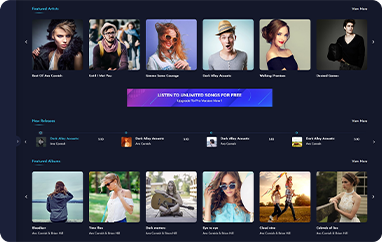
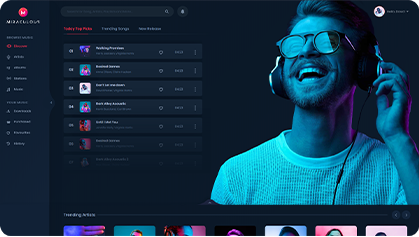
final

diff --git a/preview/index.html b/preview/index.html
@@ -136,42 +136,32 @@ Project: Miraculous Landing Page
 				<div class="mq_heading">
 					<h1>Demos</h1>
 					<img src="assets/images/line.png" alt="" title=""/>
-					<p>Unique Html Template With 3 Different Demos</p>
+					<p>Unique Html Template With 4 Different Demos</p>
 				</div>
 				<div class="row" id="go_to_demo">
 					<div class="col-lg-6 col-md-6 mq_after_effect1">
-						
-							<div class="ms_demo_img">
-								<img src="assets/images/demo-screen1.png" alt="" title=""/>
-								
-								<div class="bt_full_overlay">
-									<a href="./html/Bootstrap4/version1/index.html" target="_blank">Bootstrap4</a>
-									<a href="./html/Bootstrap5/version1/index.html" target="_blank">Bootstrap5</a>
-								</div>
-							
+						<div class="ms_demo_img">
+							<img src="assets/images/demo-screen4.jpg" alt="" title=""/>
+							<div class="bt_full_overlay">
+								<a href="./html/Bootstrap5/version4/index.html" target="_blank">Bootstrap5</a>
 							</div>
-				
-						<a href="./html/Bootstrap5/version1/index.html" target="_blank" class="mq_btn">demo 01</a>
-					</div>
-					<div class="col-lg-6 col-md-6 mq_after_effect2">
-						
-							<div class="ms_demo_img">
-								<img src="assets/images/demo-screen2.png" alt="" title=""/>
-								
-								<!-- <div class="ms_box_overlay"></div> -->
-								<!-- <div class="demo_btn">
-									<span><img src="assets/images/previewicon.svg" alt=""/></span>
-								</div> -->
-								<div class="bt_full_overlay">
-									<a href="./html/Bootstrap5/version3/index.html" target="_blank">Bootstrap5</a>
-								</div>
 								<div class="new_btn">
 									<h1>NEW</h1>
 								</div>
-								
+						</div>
+						<a href="./html/Bootstrap5/version4/index.html" target="_blank" class="mq_btn">demo 01</a>
+					</div>
+					<div class="col-lg-6 col-md-6 mq_after_effect2">
+						<div class="ms_demo_img">
+							<img src="assets/images/demo-screen2.png" alt="" title=""/>
+							<div class="bt_full_overlay">
+								<a href="./html/Bootstrap5/version3/index.html" target="_blank">Bootstrap5</a>
 							</div>
-					
-							<a href="./html/Bootstrap5/version3/index.html" target="_blank" class="mq_btn">demo 02</a>
+							<div class="new_btn">
+								<h1>NEW</h1>
+							</div>
+						</div>
+						<a href="./html/Bootstrap5/version3/index.html" target="_blank" class="mq_btn">demo 02</a>
 					</div>
 					<div class="col-lg-12">
 						<div class="ti_down_arrow">
@@ -179,17 +169,24 @@ Project: Miraculous Landing Page
 						</div>
 					</div>
 					<div class="col-lg-6 col-md-6 mq_after_effect3">
-						
-							<div class="ms_demo_img">
-								<img src="assets/images/demo-screen3.png" alt="" title=""/>
-								<!-- <div class="ms_box_overlay"></div> -->
-								<div class="bt_full_overlay">
-									<a href="./html/Bootstrap4/version2/index.html" target="_blank">Bootstrap4</a>
-									<a href="./html/Bootstrap5/version2/index.html" target="_blank">Bootstrap5</a>
-								</div>
+						<div class="ms_demo_img">
+							<img src="assets/images/demo-screen1.png" alt="" title=""/>
+							<div class="bt_full_overlay">
+								<a href="./html/Bootstrap4/version1/index.html" target="_blank">Bootstrap4</a>
+								<a href="./html/Bootstrap5/version1/index.html" target="_blank">Bootstrap5</a>
 							</div>
-					
-						<a href="./html/Bootstrap5/version2/index.html" target="_blank" class="mq_btn">demo 03</a>
+						</div>
+						<a href="./html/Bootstrap5/version1/index.html" target="_blank" class="mq_btn">demo 03</a>
+					</div>
+					<div class="col-lg-6 col-md-6 mq_after_effect3">
+						<div class="ms_demo_img">
+							<img src="assets/images/demo-screen3.png" alt="" title=""/>
+							<div class="bt_full_overlay">
+								<a href="./html/Bootstrap4/version2/index.html" target="_blank">Bootstrap4</a>
+								<a href="./html/Bootstrap5/version2/index.html" target="_blank">Bootstrap5</a>
+							</div>
+						</div>
+						<a href="./html/Bootstrap5/version2/index.html" target="_blank" class="mq_btn">demo 04</a>
 					</div>
 				</div>
 			</div>
@@ -599,7 +596,7 @@ Project: Miraculous Landing Page
 		<!--===footer End===-->
 		<!--===copyright start===-->
 		<div class="copyright_wrapper">
-			<p>Copyright © 2018-2022 <a href="index.html">The Miraculous.</a> All Rights Reserved.</p>
+			<p>Copyright © 2018-<span id="copyright_year">2026</span> <a href="index.html">The Miraculous.</a> All Rights Reserved.</p>
 		</div>
 		<!--===copyright End===-->
 		<!--===Bottom To Top===-->
@@ -616,6 +613,7 @@ Project: Miraculous Landing Page
     <script src="assets/js/bootstrap.min.js"></script>
 	<script src="assets/js/wow.min.js"></script>
     <script src="assets/js/custom.js"></script>
+	<script>document.getElementById("copyright_year").textContent = new Date().getFullYear();</script>
 	<script>
 		new WOW().init();
 	</script>

diff --git a/preview/assets/css/style.css b/preview/assets/css/style.css
@@ -200,6 +200,9 @@ p {
 .headerscreen4 {
     position: absolute;
     top: 375px;
+    width: 419px;
+    height: auto;
+    border-radius: 18px;
     right: 100px;
     animation: 3.8s floating linear infinite;
     filter: drop-shadow(16.853px 14.141px 19.5px rgba(10,42,75,0.14));
@@ -453,7 +456,9 @@ p {
     border-radius: 5px;
 }
 .ms_demo_img {
-    box-shadow: 0px 0px 18px 2px rgba(0, 0, 0, 0.12);
+    border-radius: 14px;
+    border: 1px solid rgba(10, 42, 75, 0.14);
+    box-shadow: 0px 14px 40px rgba(10, 42, 75, 0.22);
     display: inline-block;
 	position:relative;
 	overflow:hidden;
@@ -1059,6 +1064,11 @@ i.fa.fa-arrow-up {
     text-align: center !important;
 }
 }
+@media(max-width:991px){
+    .mq_banner_heading h2{
+        font-size: 46px;
+    }
+}
 @media(max-width:767px){
     .mq_header_logo {
         text-align: center;
@@ -1150,22 +1160,57 @@ i.fa.fa-arrow-up {
 
 /* responsive css */
 .new_btn h1 {
-    font-size: 10px;
+    font-size: 13px;
+    line-height: 1;
+    margin: 0;
+    color: #1d1d1f;
+    font-weight: 800;
 }
 .new_btn {
     position: absolute;
-    top: 30px;
-    left: 0px;
-    background: #ff294a;
-    color: #fff;
+    top: 14px;
+    right: 14px;
+    left: auto;
+    background: linear-gradient(135deg, #ffd23f, #ffb300);
+    color: #1d1d1f;
     display: flex;
     align-items: center;
     justify-content: center;
+    gap: 6px;
     z-index: 99999;
-    padding: 10px 20px 8px;
-    border-radius: 0px 4px 4px 0px;
-    font-weight: 700;
-    letter-spacing: 3px;
+    padding: 9px 18px 9px 14px;
+    border-radius: 50px;
+    border: 2px solid #fff;
+    box-shadow: 0 6px 18px rgba(255, 179, 0, 0.55);
+    font-weight: 800;
+    letter-spacing: 2px;
+    overflow: hidden;
+    animation: newBadgePulse 2s ease-in-out infinite;
+}
+.new_btn:before {
+    content: "\2605";
+    font-size: 13px;
+    line-height: 1;
+    color: #ff294a;
+}
+.new_btn:after {
+    content: "";
+    position: absolute;
+    top: 0;
+    left: -60%;
+    width: 40%;
+    height: 100%;
+    background: linear-gradient(100deg, transparent, rgba(255, 255, 255, 0.75), transparent);
+    transform: skewX(-20deg);
+    animation: newBadgeShine 3s ease-in-out infinite;
+}
+@keyframes newBadgePulse {
+    0%, 100% { box-shadow: 0 6px 18px rgba(255, 179, 0, 0.55), 0 0 0 0 rgba(255, 179, 0, 0.6); }
+    50% { box-shadow: 0 6px 18px rgba(255, 179, 0, 0.55), 0 0 0 9px rgba(255, 179, 0, 0); }
+}
+@keyframes newBadgeShine {
+    0%, 60% { left: -60%; }
+    100% { left: 140%; }
 }
 
 
